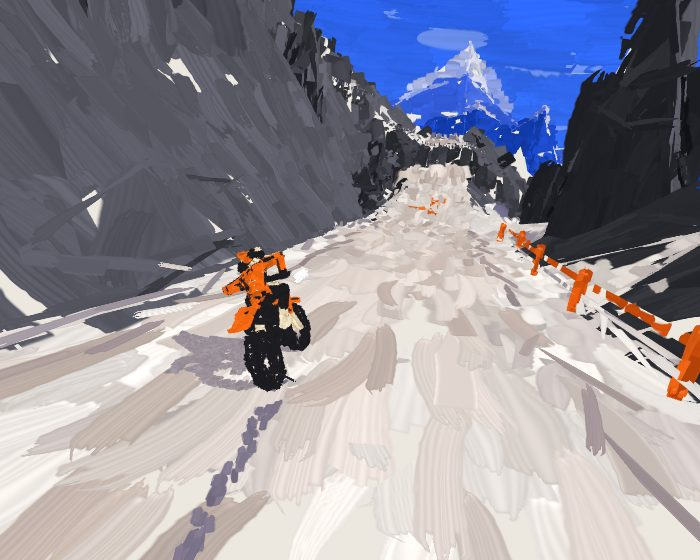
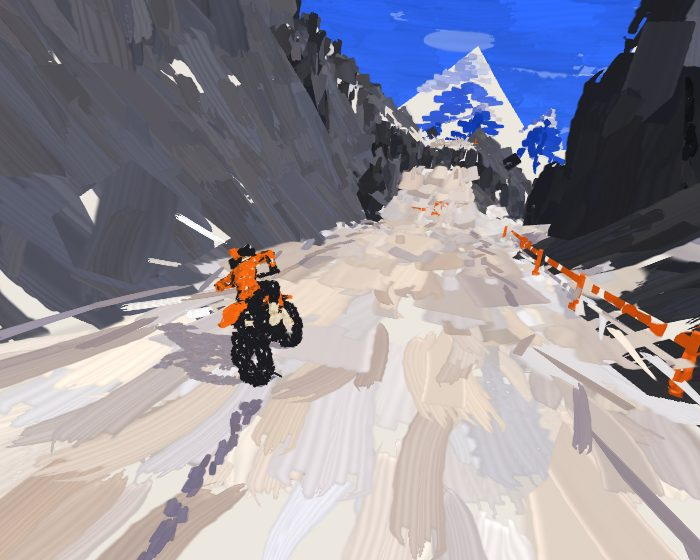
lab/switchback painted: revert the cut edges (back to the sixteen-brush deploy)
The blocks-then-edges work, and the attempt to fix its regression, are
reverted: paint.ts, the notes and the views return to 808685c. Kept: the
rider's shadow following the road (render.ts), a bug fix for both looks.

Claude-Session: https://claude.ai/code/session_01XxjdrEubiC3ZZ3ppUeUc93

diff --git a/cells/lab/client/switchback/paint.ts b/cells/lab/client/switchback/paint.ts
@@ -127,8 +127,6 @@ export function stampAtlas(): { data: Uint8Array; w: number; h: number } {
 export const STROKE = 20;
 export const NEVER = -1e9;
 const ROAD = new Set<number>([M.TRACK, M.RUT]), GROUND = new Set<number>([M.SNOW, M.SHADOW]), ROCKY = new Set<number>([M.ROCK, M.UMBER, M.GOUGE]);
-/** the sun, as the facets have it (render.ts), for working out a face's light band where the strokes are laid */
-const SUN_ = (() => { const v = [-0.5, 0.72, 0.5], l = Math.hypot(v[0], v[1], v[2]); return v.map((x) => x / l); })();
 const BACKDROP = new Set<number>([M.MTN, M.MTNSNOW, M.FAR, M.FARSNOW, M.RIDGE, M.FOREST, M.VALLEY]);
 const hash2 = (a: number, b: number) => { let h = Math.imul(a | 0, 0x27d4eb2d) ^ Math.imul(b | 0, 0x165667b1); h = Math.imul(h ^ (h >>> 15), 0x85ebca6b); return (h ^ (h >>> 13)) >>> 0; };
 
@@ -154,14 +152,9 @@ export function lineOf(c: Course, s0: number, s1: number) {
  *   the ground is.
  */
 export function strokesOver(verts: Float32Array, seed: number, line: number[] | null, cap = 26000, moving = false, place = 0, flat = false): Float32Array {
-  // (laid in three layers, in this order: the masses that block each region in, the few touches inside it, and the edges
-  // that cut each region back where it meets another of a different colour)
-  const masses: number[] = [], touches: number[] = [], edges: number[] = [];
-  const faces: { mt: number; band: number; n: number[]; c: number[]; st: number; Le: number; back: boolean; kind: number }[] = [];
-  const edgeOf = new Map<string, { fs: number[]; P: number[]; Q: number[] }>();
-  const key = (x: number, y: number, z: number) => `${Math.round(x * 50)},${Math.round(y * 50)},${Math.round(z * 50)}`;
+  const out: number[] = [];
   const n = verts.length / 12;
-  for (let t = 0; t < n && (masses.length + touches.length) / STROKE < cap; t++) {
+  for (let t = 0; t < n && out.length / STROKE < cap; t++) {
     // (each face's strokes seeded by the face: by its place in the mesh, or, for a mesh that's a window sliding along the
     // way (`place`, the size it's known to), by where it is, so the same face keeps the same strokes as the window moves)
     const R = place > 0 ? rng(hash2(seed, hash2(Math.round((verts[t * 12] + verts[t * 12 + 4] + verts[t * 12 + 8]) / (3 * place)), Math.round((verts[t * 12 + 2] + verts[t * 12 + 6] + verts[t * 12 + 10]) / (3 * place))) ^ Math.round((verts[t * 12 + 1] + verts[t * 12 + 5] + verts[t * 12 + 9]) / (3 * place))) + 7) : rng(hash2(seed, t) + 7);
@@ -181,7 +174,7 @@ export function strokesOver(verts: Float32Array, seed: number, line: number[] | 
       for (let k = 0; k < line.length; k += 6) { const dd = (line[k] - mx) ** 2 + (line[k + 2] - mz) ** 2; if (dd < best) { best = dd; px = line[k]; pz = line[k + 2]; lx = line[k + 3]; lz = line[k + 4]; st = line[k + 5]; } }
       d = Math.sqrt(best);
     }
-    const emit = (tx: number, ty: number, tz: number, Ls: number, Ws: number, cover: number, pass: number, stamps: number[], jit: number, bendA: number, kind: number, out = masses) => {
+    const emit = (tx: number, ty: number, tz: number, Ls: number, Ws: number, cover: number, pass: number, stamps: number[], jit: number, bendA: number, kind: number) => {
       const want = (area * cover) / (Ls * Ws);
       let k = Math.floor(want) + (R() < want - Math.floor(want) ? 1 : 0);
       while (k-- > 0) {
@@ -193,18 +186,6 @@ export function strokesOver(verts: Float32Array, seed: number, line: number[] | 
           st, pass, moving ? 1 : 0, 0);
       }
     };
-    // (the face's colour, as the facets pick it: its light band; every stroke on it takes the same, so a region reads as one
-    // block)
-    const tone = mt - m, band = (() => { const l = nx * SUN_[0] + ny * SUN_[1] + nz * SUN_[2] + (tone / 0.9 - 0.5) * 0.42; return l > 0.62 ? 0 : l > 0.3 ? 1 : l > -0.05 ? 2 : 3; })();
-    const remember = (Le: number, kind = 0) => {
-      const f = faces.length;
-      faces.push({ mt, band, n: [nx, ny, nz], c: [(ax + bx + cx) / 3, (ay + by + cy) / 3, (az + bz + cz) / 3], st, Le, back: backdrop, kind });
-      for (const [p, q] of [[0, 1], [1, 2], [2, 0]]) {
-        const P = [verts[o + p * 4], verts[o + p * 4 + 1], verts[o + p * 4 + 2]], Q = [verts[o + q * 4], verts[o + q * 4 + 1], verts[o + q * 4 + 2]];
-        const kp = key(P[0], P[1], P[2]), kq = key(Q[0], Q[1], Q[2]), k = kp < kq ? kp + '|' + kq : kq + '|' + kp;
-        const e = edgeOf.get(k); if (e) e.fs.push(f); else edgeOf.set(k, { fs: [f], P, Q });
-      }
-    };
     if (thing) {
       // (a thing: along its face's longest edge, sized by the face; both sides)
       const e = [[ux, uy, uz], [vx, vy, vz], [cx - bx, cy - by, cz - bz]].sort((p, q) => Math.hypot(q[0], q[1], q[2]) - Math.hypot(p[0], p[1], p[2]))[0], el = Math.hypot(e[0], e[1], e[2]) || 1;
@@ -212,9 +193,7 @@ export function strokesOver(verts: Float32Array, seed: number, line: number[] | 
       // (a flat thing lying on the ground (your track, a shadow) is laid as the ground is: flat on it, one side; a
       // standing thing, both sides, turning to the eye)
       if (flat && ny < 0) { nx = -nx; ny = -ny; nz = -nz; }
-      // (a standing thing's regions are cut too, where its colours meet and at its sharp folds: its masses flat inside)
-      if (!flat) remember(moving ? 0.22 : 0.8, 3);
-      emit(e[0] / el, e[1] / el, e[2] / el, Ls, Ls * (flat ? 0.35 : 0.5), flat ? 2.6 : 3.2, 1, flat ? [0, 1, 11] : [0, 1, 2, 4, 8, 15], 0.35, flat ? 0.2 : 0.4, flat ? 0 : 3);
+      emit(e[0] / el, e[1] / el, e[2] / el, Ls, Ls * (flat ? 0.35 : 0.5), flat ? 2.2 : 3.2, 1, flat ? [0, 1, 11] : [0, 1, 2, 4, 8, 15], 0.35, flat ? 0.2 : 0.4, flat ? 0 : 3);
       continue;
     }
     // (the face's normal: up, or (a steep face) toward the road it's seen from)
@@ -226,10 +205,8 @@ export function strokesOver(verts: Float32Array, seed: number, line: number[] | 
     const across = () => { const a = ny * fz - nz * fy, b = nz * fx - nx * fz, c = nx * fy - ny * fx, l = Math.hypot(a, b, c) || 1; return [a / l, b / l, c / l]; };
     const along = () => { const dp = lx * nx + lz * nz; const x = lx - nx * dp, y = -ny * dp, z = lz - nz * dp; const l = Math.hypot(x, y, z) || 1; return [x / l, y / l, z / l]; };
     if (backdrop) {
-      // (the far off: big level masses, close enough to leave no gaps, and its regions' edges cut)
-      const [tx, ty, tz] = fl > 0.12 ? across() : along(), Ls = Math.max(12, Math.min(320, Math.sqrt(area) * 0.85));
-      emit(tx, ty, tz, Ls, Ls * 0.45, 5, 0, [7, 11, 0], 0.3, 0.2, 0);
-      remember(Math.max(10, Math.min(120, Math.sqrt(area) * 0.4)));
+      const [tx, ty, tz] = fl > 0.12 ? across() : along(), Ls = Math.max(10, Math.min(260, Math.sqrt(area) * 0.6));
+      emit(tx, ty, tz, Ls, Ls * 0.4, 3.2, 0, [7, 11, 0, 10], 0.4, 0.3, 0);
       continue;
     }
     let tx: number, ty: number, tz: number;
@@ -238,43 +215,11 @@ export function strokesOver(verts: Float32Array, seed: number, line: number[] | 
     else if (ROCKY.has(m)) [tx, ty, tz] = [fx / fl, fy / fl, fz / fl];
     else [tx, ty, tz] = across();
     const road = ROAD.has(m), Ls = Math.min(22, 2.3 * (1 + d / 22)) * (road ? 1.7 : 1);
-    // (the masses: big and broad, blocking the region in; then a few touches inside it, no more)
-    emit(tx, ty, tz, Ls * 2.2, Ls * 2.2 * (road ? 0.3 : 0.42), ROCKY.has(m) ? 3.4 : 2.6, 0, road ? [0, 1, 7] : ROCKY.has(m) ? [9, 13, 0, 5] : [0, 7, 1, 2], 0.3, 0.25, 0);
-    emit(tx, ty, tz, Ls, Ls * (road ? 0.16 : 0.34), 1.1, 1, road ? [0, 1, 13] : ROCKY.has(m) ? [5, 6, 9, 13, 14] : [2, 3, 4, 1, 10, 12, 8, 15], road ? 0.25 : 0.5, 0.9, 0, touches);
-    remember(Math.min(6, 1.6 * (1 + d / 30)));
+    // (the masses: big and broad, laid first; then the detail over them)
+    emit(tx, ty, tz, Ls * 2.2, Ls * 2.2 * (road ? 0.3 : 0.42), ROCKY.has(m) ? 3.4 : 2.6, 0, road ? [0, 1, 7, 13] : ROCKY.has(m) ? [9, 13, 0, 5] : [11, 7, 0, 10], 0.3, 0.25, 0);
+    emit(tx, ty, tz, Ls, Ls * (road ? 0.16 : 0.34), 1.3, 1, road ? [0, 1, 13] : ROCKY.has(m) ? [5, 6, 9, 13, 14] : [2, 3, 4, 1, 10, 12, 8, 15], road ? 0.25 : 0.5, 0.9, 0);
   }
-  // the edges: where two faces of different colour meet (material or light band), each side painted up to the edge in
-  // its own colour, in hard-edged strokes along it, laid last, so the boundary is cut, not blurred
-  const R2 = rng(hash2(seed, 99991));
-  for (const { fs: fi, P, Q } of edgeOf.values()) {
-    if (fi.length !== 2) continue;
-    const fs = [faces[fi[0]], faces[fi[1]]];
-    // (a change of material always earns an edge; within one material only a real fold does (the faces meeting at more
-    // than about 12°, their light bands differing), not a face's own tone tipping it into the next band)
-    const same = Math.floor(fs[0].mt) === Math.floor(fs[1].mt), cos = Math.abs(fs[0].n[0] * fs[1].n[0] + fs[0].n[1] * fs[1].n[1] + fs[0].n[2] * fs[1].n[2]);
-    if (fs[0].kind !== fs[1].kind) continue;
-    // (a thing: where its colours meet, or a sharp fold (35°); the ground: a change of material, or a real fold across bands)
-    if (fs[0].kind === 3 ? same && cos > 0.82 : same && (fs[0].band === fs[1].band || cos > 0.978)) continue;
-    const tx = Q[0] - P[0], ty = Q[1] - P[1], tz = Q[2] - P[2], L = Math.hypot(tx, ty, tz);
-    if (L < 0.05) continue;
-    const T = [tx / L, ty / L, tz / L];
-    for (const F of fs) {
-      // (into the face, square to the edge, on its plane)
-      let wx = F.n[1] * T[2] - F.n[2] * T[1], wy = F.n[2] * T[0] - F.n[0] * T[2], wz = F.n[0] * T[1] - F.n[1] * T[0];
-      const wl = Math.hypot(wx, wy, wz) || 1; wx /= wl; wy /= wl; wz /= wl;
-      if (wx * (F.c[0] - P[0]) + wy * (F.c[1] - P[1]) + wz * (F.c[2] - P[2]) < 0) { wx = -wx; wy = -wy; wz = -wz; }
-      const Le = Math.min(F.Le, L), We = Le * (F.back ? 0.22 : F.kind === 3 ? 0.3 : 0.2), k = Math.max(1, Math.ceil(L / (Le * 0.7)));
-      for (let i = 0; i < k; i++) {
-        const t = (i + 0.5) / k * L, off = We * 0.42;
-        // (the edges carry the brushwork: a knife's hard edge most often, but flicks, a dry flat, a rake; widths and lengths of their own)
-        const ja = (R2() - 0.5) * 0.12, cja = Math.cos(ja), sja = Math.sin(ja), Tx = T[0] * cja + wx * sja, Ty = T[1] * cja + wy * sja, Tz = T[2] * cja + wz * sja;
-        edges.push(P[0] + T[0] * t + wx * off, P[1] + T[1] * t + wy * off, P[2] + T[2] * t + wz * off, F.mt, Tx, Ty, Tz, Le * (0.7 + R2() * 0.7), F.n[0], F.n[1], F.n[2], We * (0.6 + R2() * 0.8), R2(), [13, 13, 13, 0, 8, 15, 5, 14][Math.floor(R2() * 8)], (R2() - 0.5) * 0.3, F.kind, F.st, 1, moving ? 1 : 0, 1);
-      }
-    }
-  }
-  const all = new Float32Array(masses.length + touches.length + edges.length);
-  all.set(masses); all.set(touches, masses.length); all.set(edges, masses.length + touches.length);
-  return all;
+  return new Float32Array(out);
 }
 
 /** The sky's strokes: level marks round the eye from the horizon up past the top, close enough to cover it, darkening as
@@ -310,17 +255,12 @@ void main(){
   float keep = sky || both ? 1. : uDens*mix(1., .5, smoothstep(80., 900., dist));
   // (a stroke on a face turned away from the eye isn't laid (a thing, thin, is painted on both sides): it shrinks away as its
   // face turns from the eye, rather than going at once; so nothing lifted toward the eye shows through from behind an edge)
-  // (except the road: a kicker's deck is seen from under it too)
-  int mt0 = int(a0.w);
-  if (!sky && !both && a4.x > -1e8 && mt0 != 1 && mt0 != 10) g *= smoothstep(-.06, 0., dot(n, V));
-  // (the far off is left to its masses and its edges: the touches inside a region go between 70 and 170 m)
-  if (a4.y > .5 && a4.w < .5 && !both) g *= 1. - smoothstep(70., 170., dist);
+  if (!sky && !both) g *= smoothstep(-.02, .12, dot(n, V));
   if (!sky && dot(n, V) < 0.) n = -n;
   // (thinned with distance: a stroke past its turn shrinks away over a little more distance, rather than going at once)
   g *= clamp((keep - h(seed, 12.9898))/.12 + 1., 0., 1.);
   vec4 c = uVP*vec4(w, 1.);
-  // (a stroke laid just behind the eye may still run out in front of it: kept, the part behind clipped)
-  if (g <= 0. || c.w < -max(a1.w, a2.w)) { gl_Position = vec4(2., 2., 2., 1.); return; }
+  if (g <= 0. || c.w < .3) { gl_Position = vec4(2., 2., 2., 1.); return; }
   // The stroke is laid in the world, on its face, along its own way: nothing about how it lies comes from the screen, so
   // it can't swing as the eye moves. Across it, its width turns from lying on the face toward facing the eye as it gets
   // further off, so it never thins to a sliver (after Brush Rush).
@@ -337,12 +277,9 @@ void main(){
   float face = sky ? 1. : both ? .35 + .5*smoothstep(4., 40., dist) : .15 + .75*smoothstep(5., 70., dist);
   vec3 Wd = normalize(mix(Bn, Be, face));
   // its size: thinned out, the ones kept are bigger; never thinner on the picture than a few pixels, never more than a part of it
-  float grow = inversesqrt(max(keep, .3)), k = uK*uRes.y*.5/max(c.w, .5);
+  float grow = inversesqrt(max(keep, .3)), k = uK*uRes.y*.5/c.w;
   float len = a1.w*grow, wid = a2.w*grow;
-  wid = clamp(wid, uMinW/k, uRes.y*.19/k); len = clamp(len, wid*1.6, uRes.y*.5/k);
-  // (the smear never runs a stroke more than three times its own length on past where it's laid: further, and a slope
-  // that bends away would leave it standing clear of the ground)
-  len += min(smearL, min(len*3., uRes.y*.3/k));
+  wid = clamp(wid, uMinW/k, uRes.y*.19/k); len = clamp(len, wid*1.6, uRes.y*.5/k) + min(smearL, uRes.y*.3/k);
   float u = aQ.x*g, c2 = 2.*u - 1., s = (u - .5)*len, bend = a3.z*len*(1. - c2*c2)*.25;
   vec3 p = w + T*s + Wd*(aQ.y*wid*.5 + bend);
   vec4 cq = uVP*vec4(p, 1.);
@@ -360,16 +297,16 @@ void main(){
   }
   // (its colour: the face's band, as the facets pick it, a little jittered stroke by stroke; and the band next to it)
   int mt = int(a0.w); float tone = fract(a0.w);
-  float l = dot(n, uSun) + (tone/.9 - .5)*.42;
+  float l = dot(n, uSun) + (tone/.9 - .5)*.42 + (h(seed, 78.233) - .5)*.12;
   int b = l > .62 ? 0 : l > .3 ? 1 : l > -.05 ? 2 : 3;
   int b2 = clamp(b + (h(seed, 3.1) > .5 ? 1 : -1), 0, 3);
-  vec3 A = uPal[mt*4 + b], B = mix(A, uPal[mt*4 + b2], .35);
+  vec3 A = uPal[mt*4 + b], B = mix(A, uPal[mt*4 + b2], .45);
   float fd = length((w - uEye).xz), f = floor(clamp((fd - 80.)/520., 0., 1.)*4.)/4.;
   vec3 fogs[4] = vec3[4](vec3(.62, .66, .9), vec3(.33, .45, .88), vec3(.14, .33, .84), vec3(.09, .26, .78));
   float fk = min(1., f*1.1)*uFog;
   // (no two strokes alike: a little lighter or darker, a little warmer or cooler)
-  float wob = 1. + (h(seed, 9.13) - .5)*.14;
-  A *= wob; B *= wob;
+  vec3 tint = mix(vec3(.95, .98, 1.06), vec3(1.05, 1., .93), h(seed, 4.7))*(1. + (h(seed, 9.13) - .5)*.12);
+  A *= mix(vec3(1.), tint, .7); B *= mix(vec3(1.), tint, .7);
   vA = mix(A, fogs[b], fk); vB = mix(B, fogs[b2], fk);
 }`;
 const FS = `#version 300 es
@@ -500,8 +437,7 @@ export class Brush2D {
   dab(ctx: CanvasRenderingContext2D, p: number[], s: number, a: number, col: string) {
     const st = 3, cell = [(st % STAMP.COLS) * STAMP.W, Math.floor(st / STAMP.COLS) * STAMP.H];
     ctx.save(); ctx.translate(p[0], p[1]); ctx.rotate(a);
-    const k = Math.min(s, 14);
-    ctx.drawImage(this.sheet(col), cell[0], cell[1], STAMP.W, STAMP.H, -k * 0.75, -k * 0.38, k * 1.5, k * 0.76);
+    ctx.drawImage(this.sheet(col), cell[0], cell[1], STAMP.W, STAMP.H, -s * 1.3, -s * 0.6, s * 2.6, s * 1.2);
     ctx.restore();
   }
 }

diff --git a/cells/lab/static/switchback.md b/cells/lab/static/switchback.md
@@ -115,8 +115,7 @@ An experiment in drawing the mountain as paint, after looking closely at a brush
 - **The facets' own colours.** Each stroke takes its face's band as the facets pick it (a little jittered), its bristles mixing toward the band next to it.
 - **No strokes from behind.** A stroke on a face turned away from the eye isn't laid (it shrinks away as its face turns), as in Brush Rush, so a stroke lifted toward the eye never shows through an edge from the far side; the ground's outward side is up (it's a height field, cliffs included). Things thin enough to be seen from either side (the fence's tape, a flag) are painted on both.
 - **Nothing pops.** A stroke whose turn to be thinned out with distance comes shrinks away rather than going at once. What's built afresh each frame keeps its strokes: the rider by its faces, the flags and the falls by where they are; the gouges aren't painted (they're cut to the eye, so their faces change as you ride), the road's own strokes running along it instead.
-- **The speed in the marks, near the eye.** Within about 14 m of the eye (gone by 30 m), at pace every stroke turns, on its own face, toward the way the eye is going and draws out by as far as the eye goes in a moment (the eye's smoothed motion in the world: one way for every stroke, so they hold steady), so the ground and the rock just round you fall into line and stream past; further off the subject alone lays each stroke (`stretch=0` none, `stretch=2` twice). Your track and the rider's shadow are laid flat, as the ground is; the shadow lies on the road ahead and behind where it falls, not on a level plane at the rider's feet (which a slope going away left standing in the air). The smear never runs a stroke more than its own length past where it's laid, so it can't stand clear of a crest.
-- **Blocks, then edges** (the cut-paper reference's own way). Each face's light band is worked out where its strokes are laid, and every stroke on it takes that band (each mark a little lighter or darker within it), so a region reads as one block of colour with brushwork in it. Three layers, in order: the **masses** covering the region, **touches** inside it (left to the masses past about 70–170 m, so the far off stays flat), and the **edges**: wherever two faces of different colour meet (a change of material, or a real fold across light bands; not a face's own tone tipping it into the next), each side is painted up to the edge in its own colour, laid last, so the boundary is cut, not blurred. The edges carry the brushwork's character: mostly a knife's hard edge, but flicks, dry flats and a rake, each its own width and length. Standing things (the rider, the bike, the fence, a kicker) are cut the same way where their colours meet and at their sharp folds, so the rider reads as flat orange and black masses with edges.
+- **The speed in the marks, near the eye.** Within about 14 m of the eye (gone by 30 m), at pace every stroke turns, on its own face, toward the way the eye is going and draws out by as far as the eye goes in a moment (the eye's smoothed motion in the world: one way for every stroke, so they hold steady), so the ground and the rock just round you fall into line and stream past; further off the subject alone lays each stroke (`stretch=0` none, `stretch=2` twice). Your track and the rider's shadow are laid flat, as the ground is. The shadow lies on the road ahead and behind where it falls, not on a level plane at the rider's feet (which a slope going away left standing in the air).
 - **Strokes the course calls for.** Laid deliberately from the course, not scattered over faces: the road's two edges in long strokes following it (darker than the road, broken now and then), the drop's lip as a lit edge of snow, the wall's foot as a line of shade. So the way reads in the paint as far as you can see it, until, near you, the eye takes over.
 - **The speed layer too.** Its shards, the smears off the posts, the air off the rider and the debris are laid with the same stamps, tinted: a wedge becomes a long stroke tapering the same way, a chip a dab.
 
